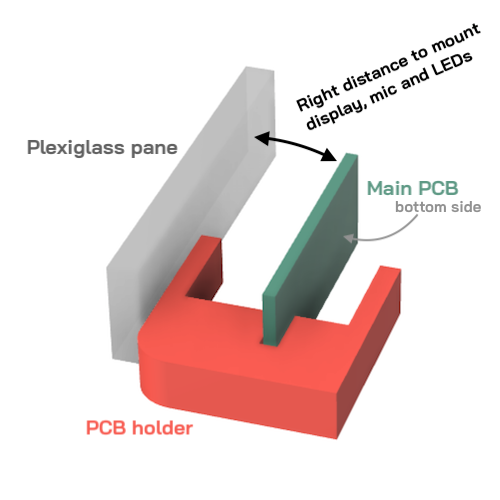
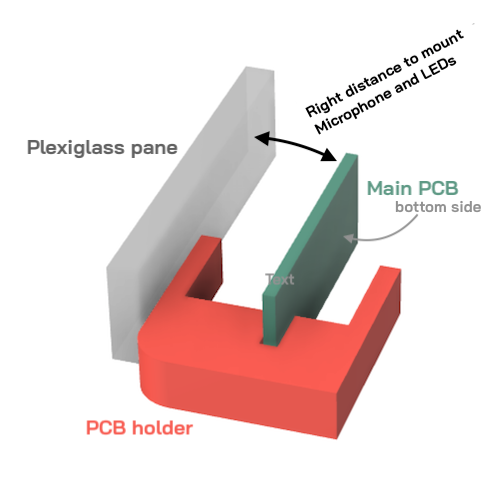
almost finished soldering guide
fotos of complete board are missing. need good daylight for nice pictures..

Changed region(s): [[0.6, 0.03, 0.96, 0.27], [0.51, 0.54, 0.6, 0.57]]

diff --git a/solder-guide/solderguide.md b/solder-guide/solderguide.md
@@ -17,7 +17,7 @@ Here is a picture of all the parts you should have received:
 
 If you are sourcing the parts by yourself, take a look at this BOM at Octopart: https://octopart.com/bom-tool/qJS5oQ3y
 
-Pay attention that the microphone, display and slide switch could not be found on Octopart. Links to the right products are added to the description field. Pay attention to the desciption column, as there are some comments on similar parts and so on.
+Pay attention that the microphone, display and slide switch could not be found on Octopart. Links to the right products are added to the description field. Pay attention to the description column, as there are some comments on similar parts and so on.
 
 You need to solder the two PSRAM modules to the Teensy 4.1 by yourself. Check [this page](https://www.pjrc.com/store/psram.html) from PJRC for instructions. If you bought a kit, the modules are already soldered to the Teensy and tested.
 
@@ -52,6 +52,7 @@ If you need information on how to use a multimeter, reading [this article](https
 ToDo:
 - zwei Bilder der Platine ohne Komponenten
 - zwei Bilder komplett bestückt
+- bei gutem Tageslicht Fotos machen!
 </p>
 ### Remove Tabs from PCB
 
@@ -155,30 +156,18 @@ To make it easy to place different parts at the right position for mounting *Bea
 
 ![PCB Holder](images/pcbHolder.png)
 
-From the theoretical sketch to a real picture. The next picture shows the display, mounted at the right below the plexiglas pane, including the display spacer.
-
 In the upcoming sections the PCB holder is always mentioned. It is explained when and how to use it to make your soldering experience more fun.
-
-![Display distance](images/displayDistance.png)
 
 ## 8. Connectors and Pins
 
-### Female connectors
+To connect the additional PCBs for audio input/output, power management, the brain a.k.a. Teensy 4.1, the amplifier to drive the speakers and the display, will be connected to the Beatmaker's sketchbook PCB via  connectors. The connectors need to be placed on the bottom side of the PCB and will be soldered on the top side.<br>
+Take the two female 50-connector strips and the two 50-pin male strips and cut each into nine parts:
 
-To connect the additional PCBs for audio input/output, power management, the brain a.k.a. Teensy 4.1 and the amplifier to drive the speakers, will be connected to the Beatmaker's sketchbook PCB via female connectors. The connectors need to be placed on the bottom side of the PCB and will be soldered on the top side.<br>
-Take the two 50 connector strips and cut them into eight parts:
+![Connectors](images/cutConnectors.png)
 
-![Connectors](images/connectors.png)
+3 single connectors each will remain. We do not need them for this project. You can build something funny with it or save them for another project. You should never throw spare parts away. ;)
 
-11 single connectors will remain. We do not need them for this project. You can build something funny with it or save them for another project. You should never throw spare parts away. ;)
-
-### Male connectors / Pins
-
-Now we cut the counterparts, the male connectors or often called *Pins*. Same procedure as before.  
-
-![Cut all pins](images/cutPins.png)
-
-We will solder the pins in a further chapter - not now. So put them aside and continue with soldering the female connectors, first.
+We will solder the pins in a later section - not now. So put them aside and continue with soldering the female connectors, first.
 
 ### Soldering
 
@@ -199,13 +188,17 @@ Mounting the microphone is an easy task. Just place the microphone in the right 
 
 ## 10. Screen PINs
 
-You reached one of the first hacks! Tear some cardboard from the display package off and place it on our workplace.<br>
-Use the long pins (see picture) and put them from the top side through the holes for the display connector. Turn The PCB upside down, use the PCB holder and make sure the pins are touching the cardboard. Solder the pins on the bottom side of the PCB.
+The screen will get connected in a slightly uncommon way and needs some attention. Take one 8 pin male connector strip and place it with the short legged side up through the main PCB from the top side.
 
-![PINs for display](images/screenPINs.png)
+![Screen PINs](images/screenPINs.png)
 
-**Why?**
-Because we do not want the pins to scratch the plexiglass cover when it is mounted. The cardboard is used as a little spacer.
+Now, let's remove the black plastic strip. There are different options to remove it. The one that always works - and is probably the most brutal one - is cutting it with the wire cutter, remove it pin by pin and straighten the pins again, as shown in the next pictures.
+
+![Screen PINs](images/screenPinMassa.png)
+
+**Why?** When the display is connected with female connectors and placed on these pins, the screen is placed right below the plexiglas pane.
+
+An **alternative option** would be to remove the plastic from the pins first, then place the pins into an eight pin female connector strip, place them and solder the male pins from the bottom side of the PCB.
 
 ## 11. LEDs
 
@@ -237,8 +230,6 @@ Repeat the task with the angled, 2 PIN connector at the power switch position as
 
 ![Power PINs](images/powerPINs.png)
 
-When done, shorten the two power button pins with a jumper. If you bought a complete kit, the jumper is already attached to the pins. The jumper will be our temporary power switch. Removing the jumper will switch the device on. Putting it back on will turn it off - when the battery is connected.
-
 ## 13. MIDI Sockets
 
 Mounting the MIDI connectors might be a bit difficult as they tend not to stay in place if you flip the PCB for soldering. It might be helpful to use some tape to hold them in place for soldering.
@@ -259,7 +250,8 @@ If you bought a kit from sucofunk.com, the SD card is already plugged in to the 
 
 ### Adding PSRAM
 
-You can skip this step, if you bought a complete kit from sucofunk.com. If you sourced the parts by yourself, now would be a good time to attach the memory. If the pins are already mounted, it is going to be a bit more difficult.
+You can skip this step, if you bought a complete kit from sucofunk.com. If you sourced the parts by yourself, now would be a good time to attach the memory. Check out this [tutorial](https://www.pjrc.com/store/psram.html) from PJRC on how to solder the PSRAM. Beatmaker's sketchbook needs two 8 MB modules.
+If the pins (next step) are already mounted, it is going to be a bit more difficult.
 
 ### Solder Pins
 
@@ -295,18 +287,27 @@ Then mount the encoders and solder them to the PCB. Repeat this step for all fou
 ![Encoder](images/encoder.png)
 
 
-## 18. Mount ICs
+## 18. Place ICs
 
 You soldered five IC sockets. Currently there are no ICs on the board. This needs to be changed now. Placing the ICs into the holders is easy, but you need to pay attention not to bend the pins. If the pins of the ICs are a bit too wide spread and do not fit into the holder, place the IC on a table and slightly push all pins at one side to bend them into the right position.
 
 The orientation of the ICs is printed on the PCB. The sockets might cover the printed white outline of the IC a bit but it should be visible. The large ICs have a semicircle on one side. Place that side on the one printed on the PCB.
 The small eight pin IC has a small dot on one corner. Place this side directing to the semicircle on the PCB. As shown in the pictures.
 
-**ToDo: Bilder**
+![IC directions](images/ICplacing.png)
 
 Do you remember what the ICs are used for? If not, jump back to the socket section and read again, if you are interested ;)
 
-## 19. Amplifier & Speakers
+## 19. Display
+
+To connect the display to Beatmaker's sketchbook you need to solder a eight socket female connector to the small display PCB as shown in the next image. You should hurry up when soldering the pins to the PCB as the display does not like too much heat.
+Do not forget to remove the two nuts besides the connector strip with a screwdriver.
+
+![Screen connector](images/screenConnector.png)
+
+If it is soldered properly, just plug the screen to the main PCB.
+
+## 20. Amplifier & Speakers
 
 During one of the the last steps we connected the audio board, which outputs the audio signals from the Teensy to the analog world. But hey, it is impossible to hear anything from that audio board without speakers. Ok, you already soldered the headphone- and line-out jacks some steps ago, but that is not enough.
 
@@ -333,18 +334,10 @@ If you soldered all four wires to the two speakers, connect the ends of the wire
 Well done! We are done with soldering for now and ready to power the system up and check if your Beatmaker's Sketchbook is working.
 
 
-## 20. Test
-
-Before the first test we need to prepare two more things.
+## 21. Test
 
 ### Plug the SD card back in
 As you might remember, you removed the SD card from the Teensy before soldering the pins. Now it is time to put the card back in.
-
-### Connect display
-A Test without a display? Now way - you cannot see, if it is working ;)
-So use the display adapter cable from the display box and connect the white connector on the backside of the screen with the white plug from the cable. Then plug the wires according to their position on the display PCB (VCC, GND, DIN, CLK..) into the display connector on the main PCB.
-
-![Connecting the screen](images/screenPlug.png)
 
 ### Powering the system for the first time
 
@@ -365,33 +358,60 @@ If you are happy and see *Beatmaker's sketchbook* starting up, follow the next s
 ToDo: Testprogramm fertig schreiben und erklären.
 
 
-## 21. Mount Display
 
-If everything is working, it's time to place the display to its final destination.
+## 22. Connect Fader, Fader LED and Power switch
 
-First of all, the display comes out of the box with four screws and nuts. We do not need them. Just remove them with a screwdriver. You sould unplug the display connector cable at this point, too, as it might be a bit difficult to remove it, when the screen is soldered in place.
+Now it's time for some up-cycling. As everything seems to be working, the display cable is not needed anymore. If you did not need it until now, be happy - it would be used for troubleshooting if the display is not working in the first run.
 
-### Display spacer
+We are re-using it for the power-switch and connecting the fader + LED to *Beatmaker's sketchbook*.
 
-To place the display at the right height to mount it right below the plexiglass cover of the enclosure, you need to place the display spacer below the display PCB. If you bought a complete kit, the spacer is in the package, otherwise you need to 3D print it first. Follow this [link] for the files.
+### Disassemble Display cable
 
-The spacer in the following images is printed in orange to have a good contrast for better visibility in the pictures. It might come in a different colour with the kits, as you will not see the spacer when the device is in use.
+Remove all connector housings of the cable, as shown in the picture. It is pretty easy, if you use a small screwdriver or a cutter knife and just lift the plastic that is holding the inside of the connectors up.
 
-Place the spacer aligned with the nut to the mounting hole on the PCB as shown in the left picture. Then take the second part of the spacer and connect both parts with the PCB in between, using the provided screw.
+![Disassembled wires](images/kabelsalat.png)
 
-![Display spacer](images/displaySpacer.png)
+### Heat shrink tube
 
-Now place the display on the spacer and pay attention all pins from the display connector go through the display PCB.
+The next steps use the supplied heat shrink tube to bundle and optically hide wires. The plexiglas pane is transparent and you might see the coloured wires if they are not wrapped in a black tube. ;)
 
-Before soldering the pins to the display PCB, it might be a good idea to use some tape to hold the display in position. As the screens are not always perfectly glued to the display PCB, you should place the display in a way that the white frame of the TFT screen is in parallel to the edges of the main PCB below it. Otherwise the screen might always look a bit displaced when using it.
+Using the heat shrink tube is straight forward. Cut it with the wire cutter or a cutter, slip it over the wires and heat it up with a lighter (or another source of hot air - ~200 °C). Watch it shrink and be happy.
 
-![Taped Display](images/displayTaped.png)
+## Power Switch
 
-If you think the screen is in the right position and cannot slip away, just solder the eight pins to the display PCB. You may not touch the screen itself or the orange/brown cable with the soldering iron. In general you should not take too much time when soldering, as the display is heat sensitive.
+Take two wires, plug the longer connectors into the two connector Dupont housing, strip some heat shrink tube over it and plug the smaller connectors to the power switch. Connect one wire to the middle pin of the power switch and the other one to another pin.
+The smaller connectors fit on to the power switch, but a bit solder helps to keep them in place. Then move the heat shrink tube and heat it up. The result should look as shown in the following picture.
 
-If the display is soldered in place, test if it is still working. Just plug the micro USB cable back in. If the display is not working, check the solder joints. Heating them up again helps most of the time.
+![Power switch](images/powerSwitch.png)
 
-## 22. Power Supply
+Connect the power switch to the pins you soldered a few steps ago.
+
+## Fader and LED
+
+The fader and its LED will be connected in the same way as we connected the power switch. Yes, the five wires plus connectors fit through the heat shrink tube! ;)
+
+The result should look like this:
+
+![Fader connections](images/fader.png)
+
+Connect **VALUE** to **1'** (upper left) on the fader, **VCC** to **2'** (right below 1') and **GND** to **3'**.
+
+A bit solder will help to keep everything in place.
+
+### Mount fader LED
+
+![Fader LED](images/faderLED.png)
+
+The legs of the LED need to be shortened. Do not cut them at the same length. Keep the difference between + and - to connect it right. **Long leg** to **LED+** and **short leg** to **LED-**.
+
+Before soldering the LED to the cable, test if it is connected in the right way by using the test-tool from above again. Do not forget to plug the five pin connector to the front connectors of the main PCB. Pay attention to plug it in in the right orientation!
+
+The legs of the LED may not touch each other to prevent a short circuit.
+
+If everything is correct, use some solder and do not forget to apply the heat-shrink tube to isolate the legs.
+
+
+## 23. Power Supply
 
 To continue with this step, unplug the micro USB cable from Beatmaker's Sketchbook, if it is still connected.
 
@@ -412,40 +432,16 @@ To give power to *Beatmaker's sketchbook* from a battery, we need to connect the
 
 There is a USB jack in the *Power Boost 500 bag*. We do not need that plug for *Beatmaker's sketchbook*. Do not solder it and keep it with the spare pins and connectors. ;)
 
-Check, if the jumper is still connecting the power switch pins! If not, fix it, because in this case the connected pins are the same as a power switch. In our case connected means off and no connection (jumper removed) is on.
-
 Now you can plug the battery in and if the blue LED is shining, there is some power in the battery and we are ready to go. Plug the Power Boost to the main PCB.
 
 ![Power management](images/powerMounted.png)
 
-If you remove the jumper from the power switch pins, the device turns on without any USB power. Plugging in the USB cable will charge the battery from now on - of course there needs to be a power source connected to the other side of the USB cable ;)
+Now you can use the power switch to turn Beatmaker's sketchbook on/off.
 
-## 23. Connect Fader, Fader LED and Power switch
+Plugging in the USB cable will charge the battery from now on - of course there needs to be a power source connected to the other side of the USB cable ;)
 
-### Disassemble Display cable
+## 24. Congratulations!
 
-![Disassembled wires](images/kabelsalat.png)
+You made it!
 
-
-### Heat shrink tube
-
-Use lighter
-
-## 24. Power Switch
-
-![Power switch](images/powerSwitch.png)
-
-
-### Connect Female 5 Port Dupont housing
-### Solder wires to fader
-
-![Fader connections](images/fader.png)
-
-### Mount fader LED
-Do not cut LED legs to the same length!
-
-Do not mix GND and VCC
-
-Isolate connectors
-
-![Fader LED](images/faderLED.png)
+If you already have an enclosure at hand, bring them together ;)
